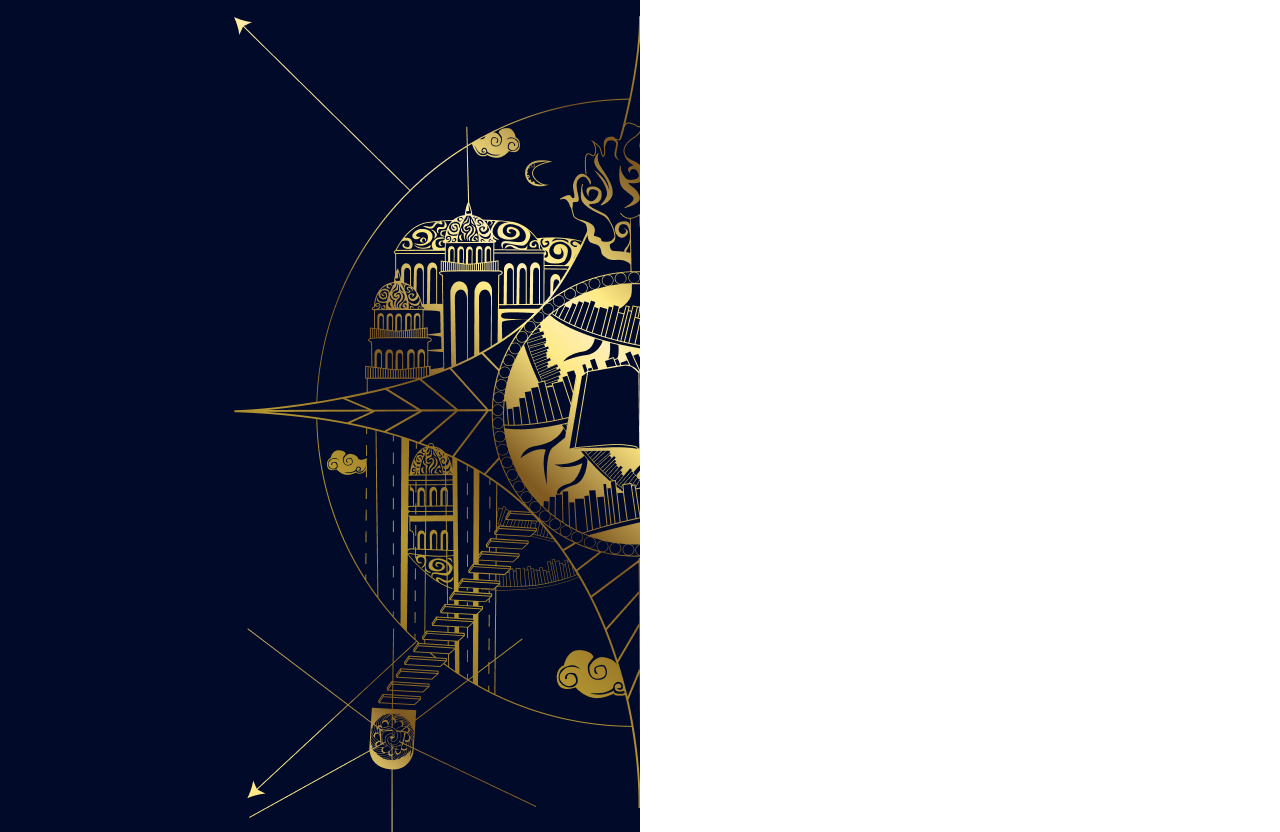
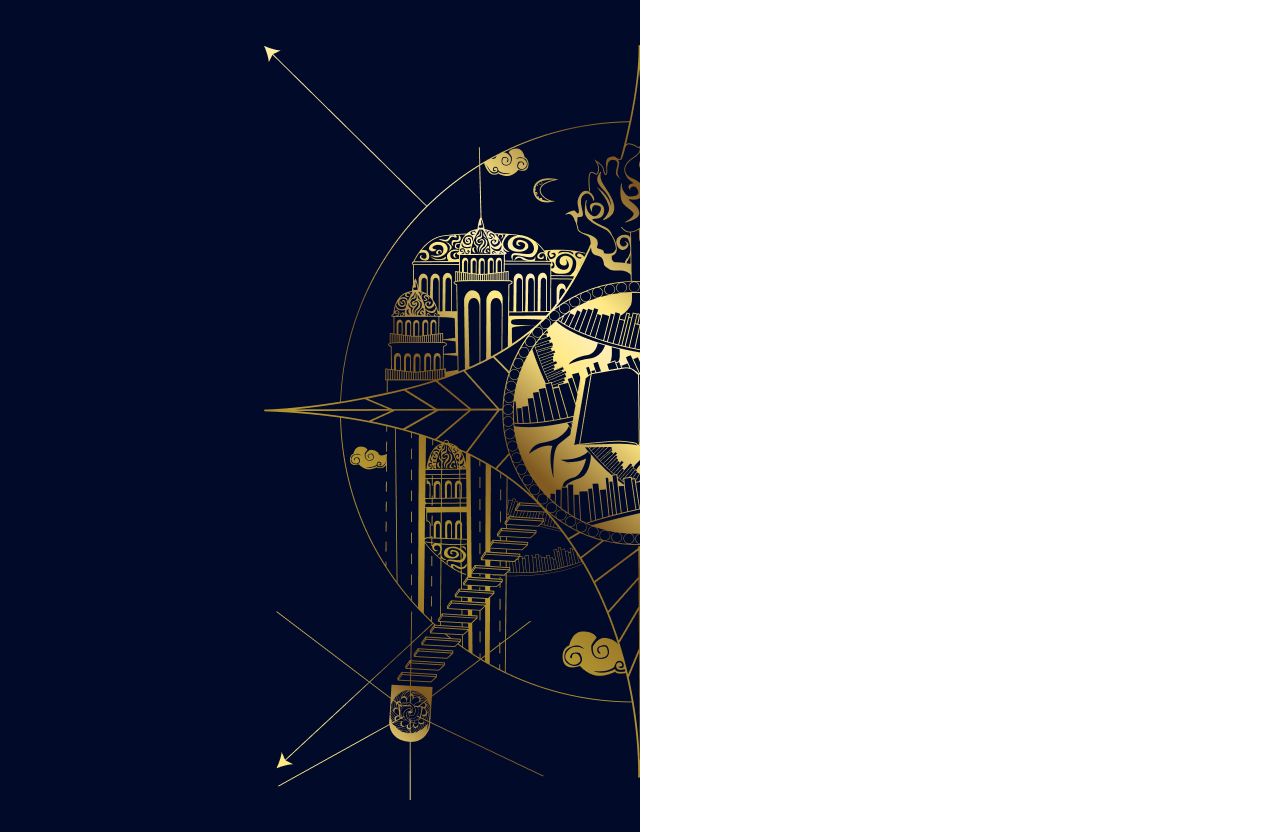
update illu on landing

Changed region(s): [[0.1875, 0.0625, 0.5, 0.9375], [0.1875, 0.9375, 0.2188, 0.9688], [0.1875, 0.0312, 0.2188, 0.0625]]

diff --git a/src/experience.html b/src/experience.html
@@ -42,7 +42,7 @@
             <img class="indication" id="scroll-indication" src="/images/notices/scroll.png" alt="">
             <img class="indication" id="book-indication" src="/images/notices/book.png" alt="">
 
-            <!-- <div>
+            <div>
                 <p class="loader"><span class="rate">0</span><span>%</span></p>
                 <img class="loader-gif" src="/images/loader/loader.gif" alt="">
                 <svg class="loader-circle" version="1.1" id="Calque_1" xmlns="http://www.w3.org/2000/svg" xmlns:xlink="http://www.w3.org/1999/xlink" x="0px" y="0px" viewBox="0 0 693.9 693.9" style="enable-background:new 0 0 693.9 693.9;" xml:space="preserve">
@@ -57,7 +57,7 @@
                     </linearGradient>
                     <circle class="st0" cx="347" cy="347" r="340.7"/>
                 </svg>
-            </div> -->
+            </div>
 
             <div class="overlay relative w-screen h-screen grid grid-cols-12 opacity-0 z-[1] pointer-events-none">
                 <div class="col-span-full bg-night-blue/50 overlay__content">

diff --git a/src/index.html b/src/index.html
@@ -23,8 +23,8 @@
     <main data-taxi>
         <div class="h-screen w-screen relative" data-taxi-view>
             <div class="w-full h-full absolute top-0 left-0 z-10 pointer-events-none">
-                <img class="absolute top-0 left-0 w-full object-center" id="left-illustration" src="/images/landing-bg-left.png" alt="illu-left">
-                <img class="absolute top-0 right-0 w-full object-center" id="right-illustration" src="/images/landing-bg-right.png" alt="illu-right">
+                <img class="absolute -top-[2rem] left-0 w-full object-center" id="left-illustration" src="/images/landing-bg-left.png" alt="illu-left">
+                <img class="absolute -top-[2rem] right-0 w-full object-center" id="right-illustration" src="/images/landing-bg-right.png" alt="illu-right">
             </div>
             <div class="px-container">
                 <div class="landing__content">

diff --git a/src/Experience/World/World.js b/src/Experience/World/World.js
@@ -20,7 +20,7 @@ export default class World {
         }
 
         // Debug
-        this.showLibraryOnly = true;
+        this.showLibraryOnly = false;
 
         !this.showLibraryOnly && (this.visualLoader = new VisualLoader());
 
